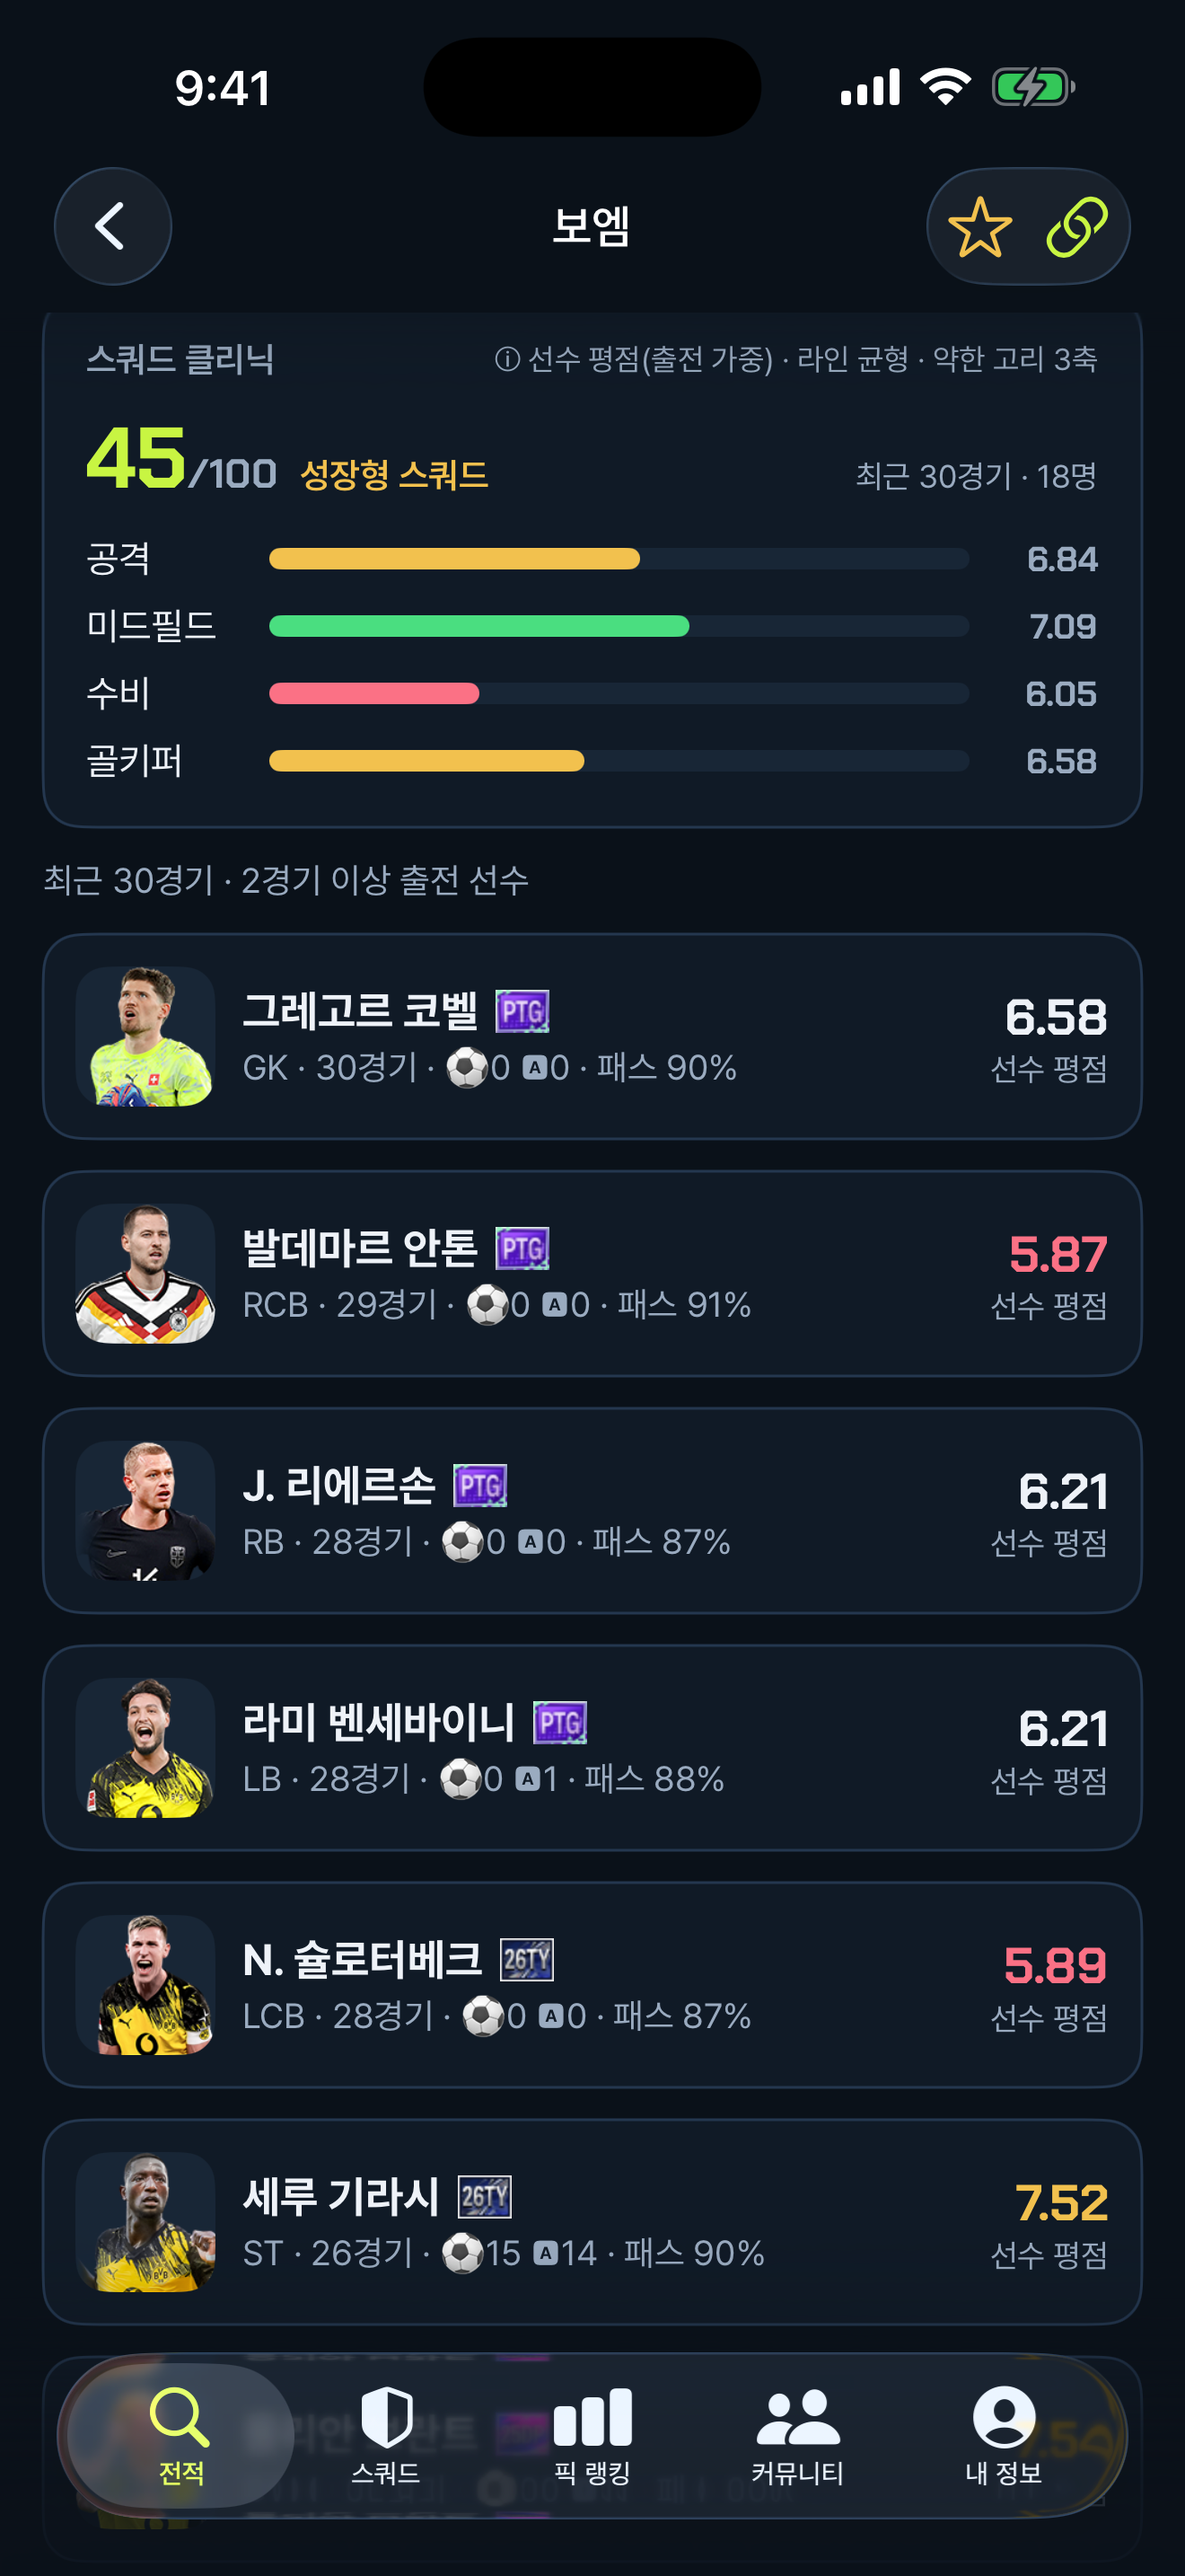
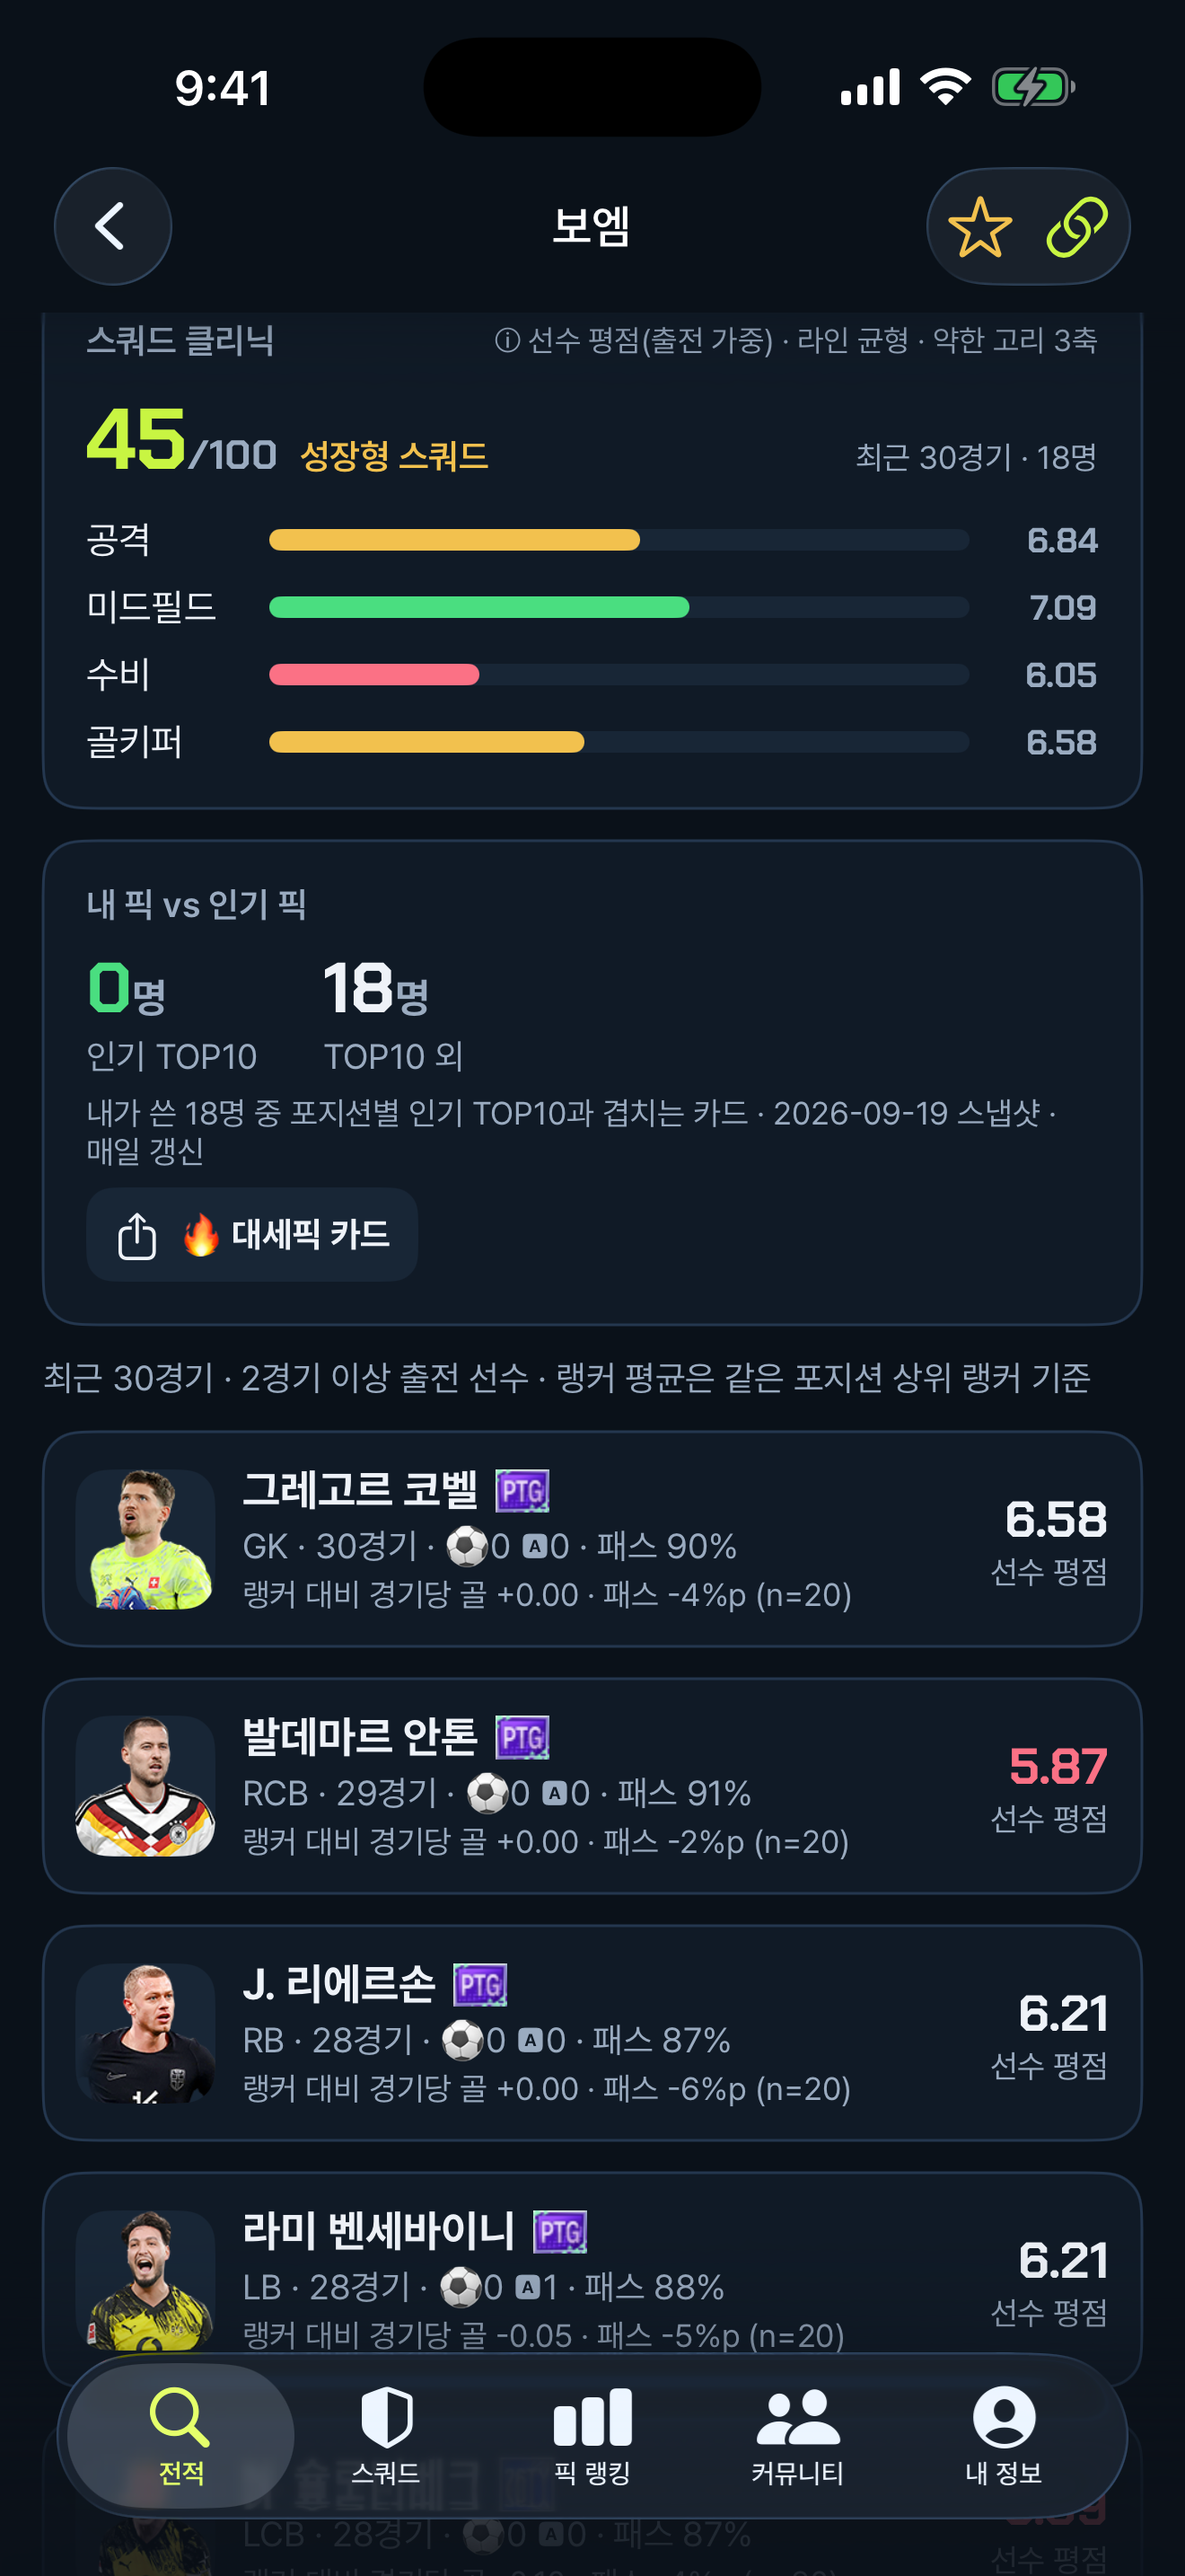
docs(screenshots): 04 with ranker comparison, add 07 pick ranking

diff --git a/docs/STORE-LISTING.md b/docs/STORE-LISTING.md
@@ -121,8 +121,8 @@ https://www.fcscope.xyz/privacy
 
 ## 스크린샷 (6.9형 1320×2868, 최대 10장)
 `docs/screenshots/` 의 파일을 번호 순서대로 올립니다(iPhone 17 Pro Max 시뮬레이터, 1320×2868, 다크 모드, 예시 계정 보엠).
-1. `01-home.png` 홈 · 2. `02-record.png` 전적 · 3. `03-match-report.png` 매치 리포트 슛맵 · 4. `04-players.png` 스쿼드 클리닉 + 선수 성적표
-5. `05-report.png` 분석 리포트 · 6. `06-squad.png` 최근 선발 그대로 불러온 스쿼드
+1. `01-home.png` 홈 · 2. `02-record.png` 전적 · 3. `03-match-report.png` 매치 리포트 슛맵 · 4. `04-players.png` 스쿼드 클리닉 + 랭커 대비 선수 성적표
+5. `05-report.png` 분석 리포트 · 6. `06-squad.png` 최근 선발 그대로 불러온 스쿼드 · 7. `07-meta.png` 픽 랭킹(포지션별 인기 카드)
 
 > ⚠ 01(홈 "지금 검색되는 구단주")과 03(상대 구단주명)에 다른 이용자의 **공개 게임 닉네임**이 보입니다. 불편하면 01·03을 빼고 올리세요.
 
